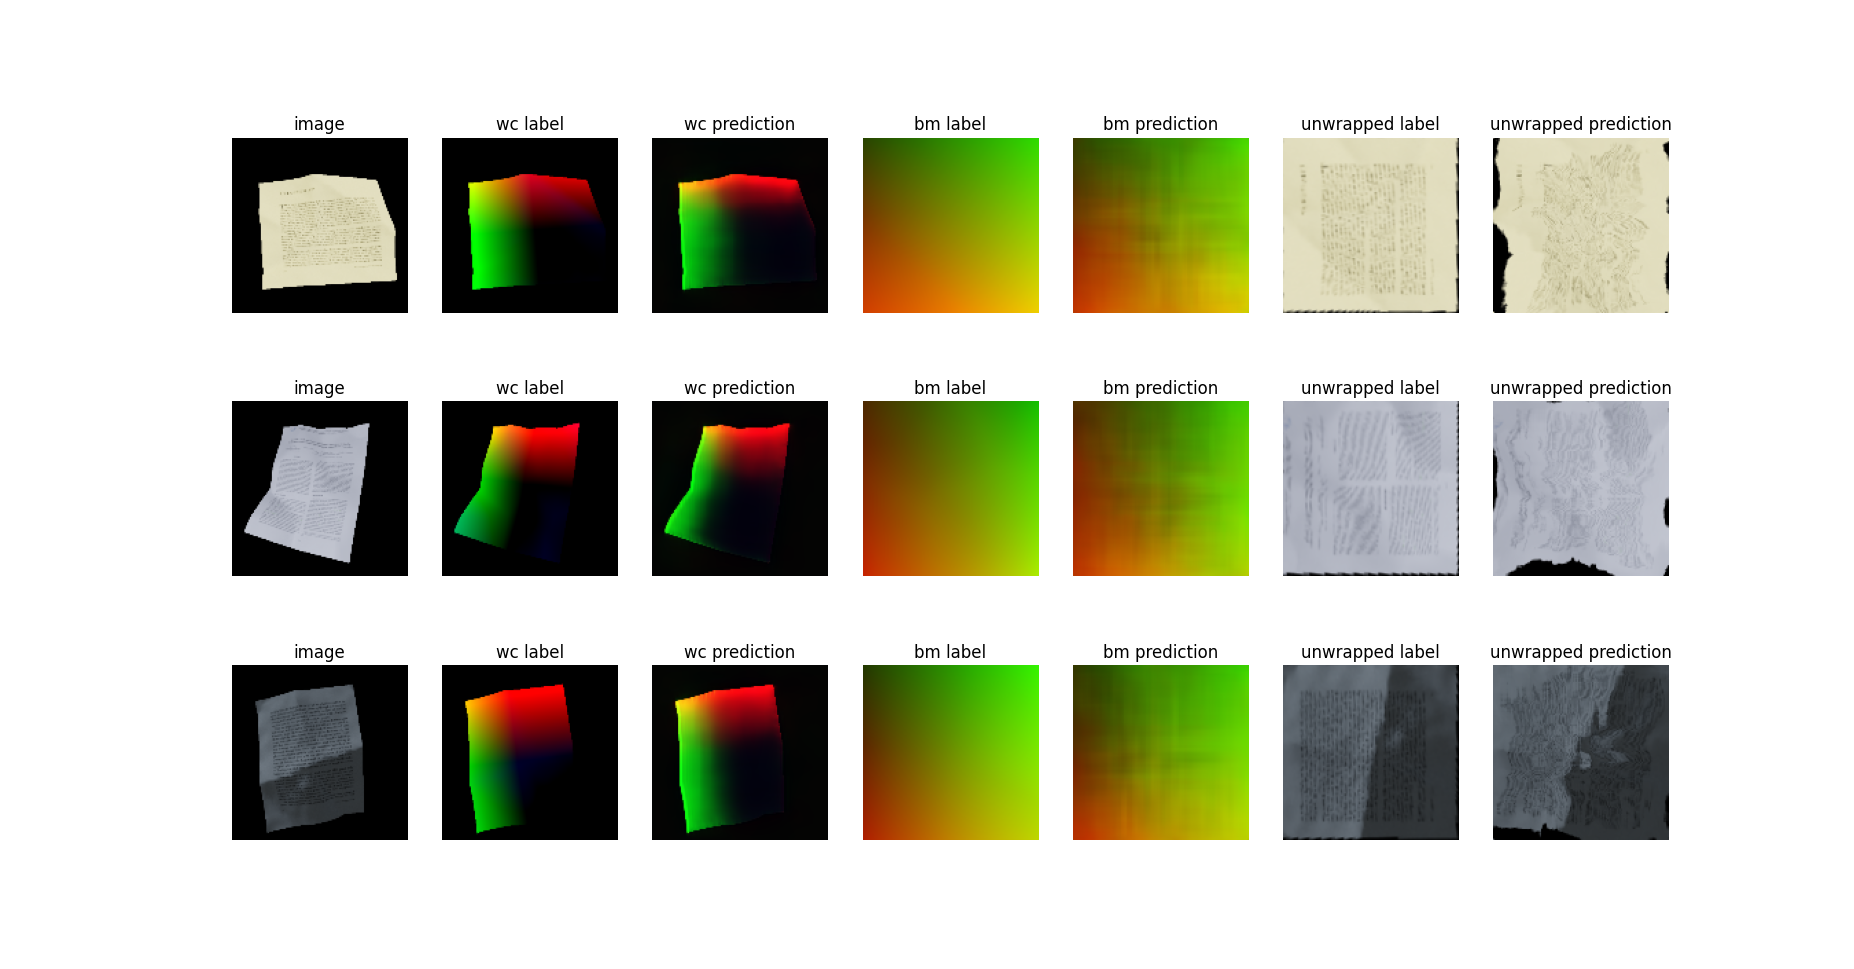
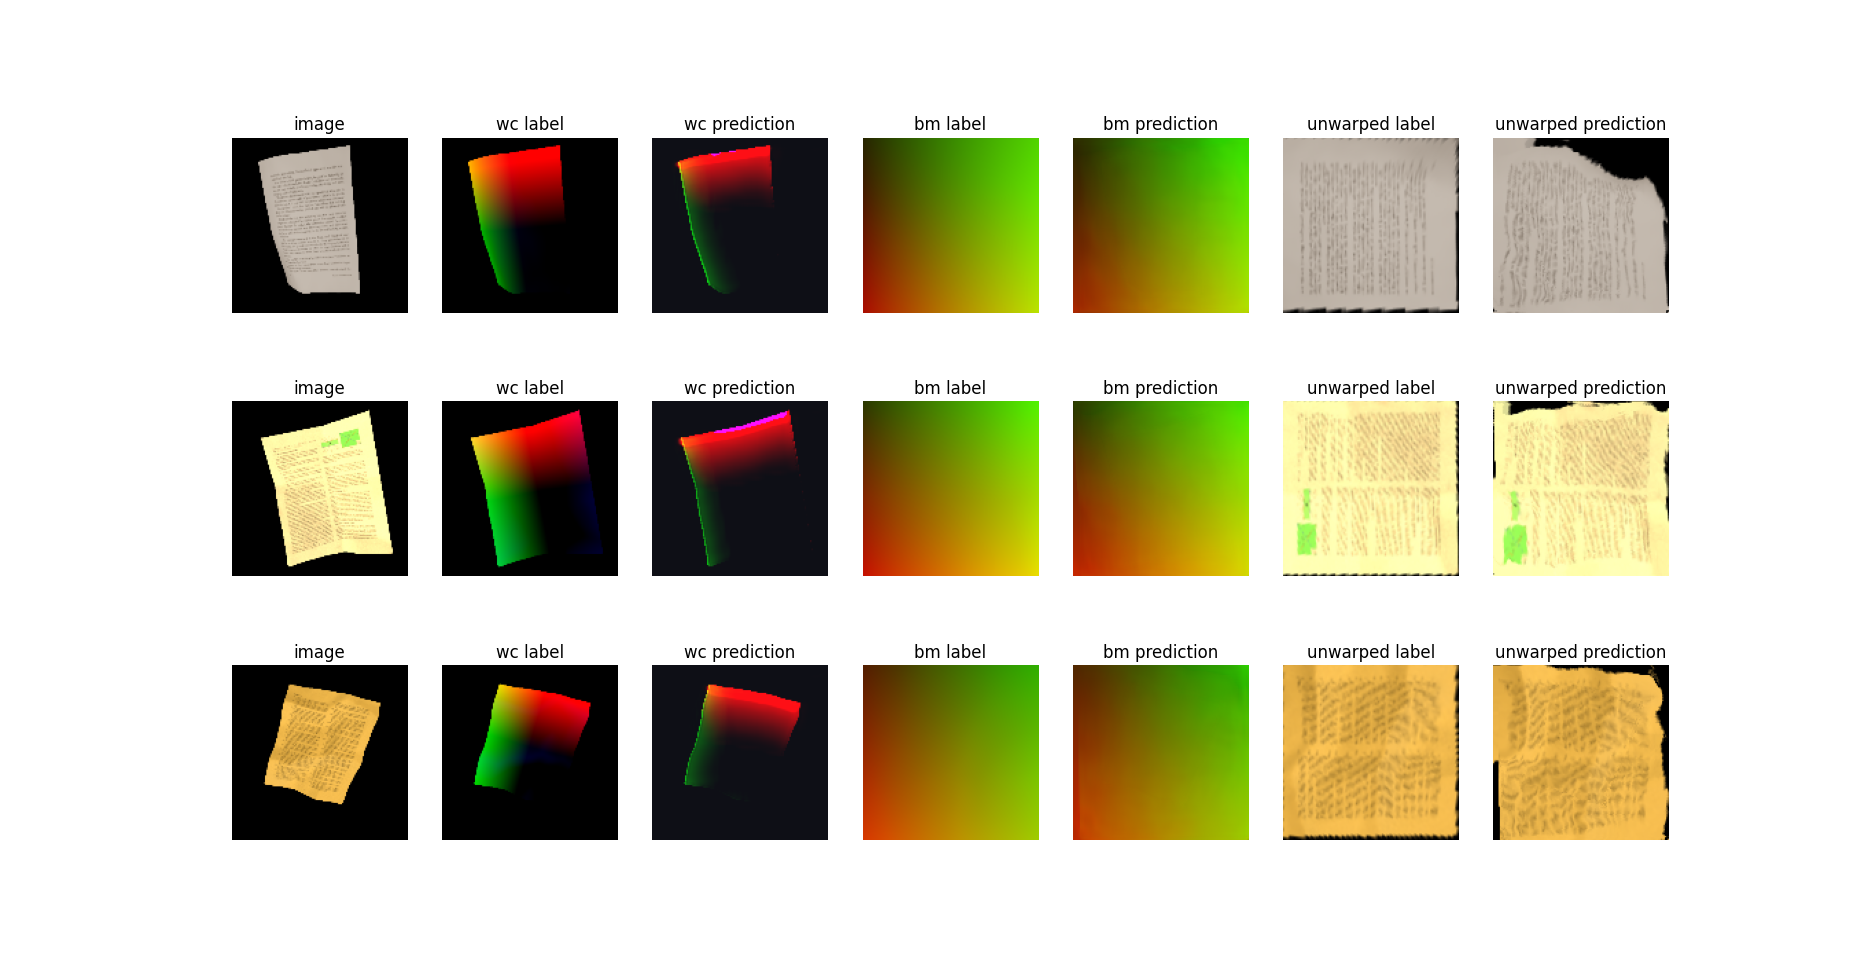
More parameters in decoders and missing relu added.

diff --git a/benchmark.py b/benchmark.py
@@ -54,80 +54,84 @@ def sample_from_bmap(img, bmap):
 # bmaps = [bmap_from_fmap(label[e,0:2,:,:], label[e,2,:,:]) for e in range(num_examples)]
 # bmaps = [sample_from_bmap(np.transpose(img[e,:,:,:], [1, 2, 0]), bmap) for e, bmap in enumerate(bmaps)]
 
-model = load_model("model.pth")
-model.eval()
+def benchmark_eval(model):
+    transform = Resize((128, 128))
 
-transform = Resize((128, 128))
+    # ds, _, _ = prepare_datasets([
+    #     ("/media/shared/Projekte/DocumentScanner/datasets/Doc3d", [("img/1", "png")], "wc/1", "exr", 20000)
+    # ], valid_perc=0.1, test_perc=0.1, batch_size=num_examples, transform=transform)
 
-# ds, _, _ = prepare_datasets([
-#     ("/media/shared/Projekte/DocumentScanner/datasets/Doc3d", [("img/1", "png")], "wc/1", "exr", 20000)
-# ], valid_perc=0.1, test_perc=0.1, batch_size=num_examples, transform=transform)
-
-# x, y = next(iter(ds))
+    # x, y = next(iter(ds))
 
 
-ds, _, _ = prepare_datasets([
-    ("/media/shared/Projekte/DocumentScanner/datasets/Doc3d", [("img_masked/1", "png"), ("lines/1", "png"), ("wc/1", "exr")], "bm/1exr", "exr", 20000)
-], valid_perc=0.1, test_perc=0.1, batch_size=num_examples, transform=transform)
+    ds, _, _ = prepare_datasets([
+        ("/media/shared/Projekte/DocumentScanner/datasets/Doc3d", [("img_masked/1", "png"), ("lines/1", "png"), ("wc/1", "exr")], "bm/1exr", "exr", 20000)
+    ], valid_perc=0.1, test_perc=0.1, batch_size=num_examples, transform=transform)
 
-x, bm_label = next(iter(ds))
-x[:, 0:3] *= x[:, 3].unsqueeze(axis=1)
-pre_label = x[:, :4]
-wc_label = x[:, 6:9]
-bm_label = bm_label[:, :2] / 448.0
+    x, bm_label = next(iter(ds))
+    x[:, 0:3] *= x[:, 3].unsqueeze(axis=1)
+    pre_label = x[:, :4]
+    wc_label = x[:, 6:9]
+    bm_label = bm_label[:, :2] / 448.0
 
-wc_pred = model.wc_model(pre_label)
-bm_pred = model.bm_model(wc_label)
-
-
-def cpu(ten):
-    return np.transpose(ten.detach().cpu().numpy(), [0, 2, 3, 1])
-
-pre_label = cpu(pre_label)
-wc_label, wc_pred = cpu(wc_label), cpu(wc_pred)
-bm_label, bm_pred = cpu(bm_label), cpu(bm_pred)
+    wc_pred = model.wc_model(pre_label)
+    bm_pred = model.bm_model(wc_label)
 
 
-def unwrap(e, ten):
-    return cv2.remap(pre_label[e, :, :, :3], ten * 128.0, None, interpolation=cv2.INTER_LINEAR)
+    def cpu(ten):
+        return np.transpose(ten.detach().cpu().numpy(), [0, 2, 3, 1])
 
-unwrapped_label = [unwrap(e, bm_label[e]) for e in range(num_examples)]
-unwrapped_pred = [unwrap(e, bm_pred[e]) for e in range(num_examples)]
-
-def pad(ten):
-    return np.pad(ten, ((0, 0), (0, 0), (0, 0), (0, 1)), mode='constant', constant_values=0)
-
-bm_label, bm_pred = pad(bm_label), pad(bm_pred)
+    pre_label = cpu(pre_label)
+    wc_label, wc_pred = cpu(wc_label), cpu(wc_pred)
+    bm_label, bm_pred = cpu(bm_label), cpu(bm_pred)
 
 
-title = ['image', 'wc label', 'wc prediction', 'bm label', 'bm prediction', 'unwrapped label', 'unwrapped prediction']
+    def unwrap(e, ten):
+        return cv2.remap(pre_label[e, :, :, :3], ten * 128.0, None, interpolation=cv2.INTER_LINEAR)
 
-plt.figure(figsize=(25, 25))
-i = 0
+    unwarped_label = [unwrap(e, bm_label[e]) for e in range(num_examples)]
+    unwarped_pred = [unwrap(e, bm_pred[e]) for e in range(num_examples)]
 
-for e in range(num_examples):
-    list = [pre_label[e,:,:,:3], wc_label[e], wc_pred[e], bm_label[e], bm_pred[e], unwrapped_label[e], unwrapped_pred[e]]
-    for t, arr in enumerate(list):
-        plt.subplot(num_examples, len(title), i + 1)
-        plt.title(title[t])
-        plt.imshow(arr)
+    def pad(ten):
+        return np.pad(ten, ((0, 0), (0, 0), (0, 0), (0, 1)), mode='constant', constant_values=0)
 
-        plt.axis('off')
-        i += 1
-
-plt.show()
+    bm_label, bm_pred = pad(bm_label), pad(bm_pred)
 
 
-# cer = 0.0
-# ed = 0.0
-# counter = 0
+    title = ['image', 'wc label', 'wc prediction', 'bm label', 'bm prediction', 'unwarped label', 'unwarped prediction']
 
-# char_error_rate = CharErrorRate()
-# edit_distance = ExtendedEditDistance()
+    plt.figure(figsize=(25, 25))
+    i = 0
 
-# text_label = str(pytesseract.image_to_string(unwrapped_label))
-# text_pred = str(pytesseract.image_to_string(unwrapped_pred))
+    for e in range(num_examples):
+        list = [pre_label[e,:,:,:3], wc_label[e], wc_pred[e], bm_label[e], bm_pred[e], unwarped_label[e], unwarped_pred[e]]
+        for t, arr in enumerate(list):
+            plt.subplot(num_examples, len(title), i + 1)
+            plt.title(title[t])
+            plt.imshow(arr)
 
-# cer += char_error_rate(text_pred, text_label).item()
-# ed += edit_distance(text_pred, text_label).item()
-# counter += 1
+            plt.axis('off')
+            i += 1
+
+    plt.show()
+
+
+    # cer = 0.0
+    # ed = 0.0
+    # counter = 0
+
+    # char_error_rate = CharErrorRate()
+    # edit_distance = ExtendedEditDistance()
+
+    # text_label = str(pytesseract.image_to_string(unwarped_label))
+    # text_pred = str(pytesseract.image_to_string(unwarped_pred))
+
+    # cer += char_error_rate(text_pred, text_label).item()
+    # ed += edit_distance(text_pred, text_label).item()
+    # counter += 1
+
+
+if __name__ == '__main__':
+    model = load_model("model.pth")
+    model.eval()
+    benchmark_eval(model)

diff --git a/model.py b/model.py
@@ -13,6 +13,7 @@ class Conv(nn.Module):
         
         self.layers = nn.Sequential(
             nn.Conv2d(inp, out, kernel_size=3, stride=1, padding='same', bias=False),
+            nn.ReLU(),
             nn.BatchNorm2d(out)
         )
     
@@ -37,14 +38,11 @@ class Block(nn.Module):
 
 
 class BlockStack(nn.Module):
-    def __init__(self, inp, out):
+    def __init__(self, filters, blocks):
         super().__init__()
 
         self.layers = nn.Sequential(
-            Conv(inp, out),
-            Block(out),
-            Block(out),
-            Block(out)
+            *[Block(filters) for _ in range(blocks)]
         )
 
 
@@ -58,8 +56,10 @@ class DownscaleBlock(nn.Module):
         
         self.layers = nn.Sequential(
             nn.MaxPool2d(2),
-            BlockStack(inp, out)
+            Conv(inp, out),
+            BlockStack(out, 4)
         )
+
 
     def forward(self, x):
         return self.layers(x)
@@ -69,14 +69,15 @@ class UpscaleBlock(nn.Module):
     def __init__(self, inp, out):
         super().__init__()
 
-        self.shuffle = Conv(inp, 4 * out)
-        self.conv = Block(out)
+        self.conv = Conv(inp, 4 * out)
+        self.stack = BlockStack(out, 4)
+
 
     def forward(self, x):
-        x = self.shuffle(x)
-        x = F.pixel_shuffle(x, 2)
         x = self.conv(x)
-
+        x = F.pixel_shuffle(x, 2)
+        x = self.stack(x)
+        
         return x
 
 
@@ -116,6 +117,52 @@ class UNet(nn.Module):
         
         x = self.cvt_out(x)
 
+        return x
+
+
+class ResBlock(nn.Module):
+    def __init__(self, filters):
+        super().__init__()
+
+        self.conv0 = Conv(filters, filters)
+        self.conv1 = Conv(filters, filters)
+
+    def forward(self, inp):
+        x = self.conv0(inp)
+        x = self.conv1(x)
+        x = x + inp
+        return x
+
+
+class ResNet(nn.Module):
+    def __init__(self, inp, out, depth_steps, blocks_per_depth):
+        super().__init__()
+
+        depth = [ 32, 64, 128, 256, 512, 1024 ]
+
+        self.cvt_in = Conv(inp, depth[0])
+
+        layers = []
+
+        for d in range(depth_steps):
+            for b in range(blocks_per_depth):
+                layers.append(ResBlock(depth[d]))
+
+            if d != depth_steps - 1:
+                layers.append(Conv(depth[d], depth[d + 1]))
+
+        self.layers = nn.ModuleList(layers)
+
+        self.cvt_out = Conv(depth[depth_steps - 1], out)
+
+
+    def forward(self, x):
+        x = self.cvt_in(x)
+
+        for layer in self.layers:
+            x = layer(x)
+
+        x = self.cvt_out(x)
         return x
 
 
@@ -190,12 +237,13 @@ class BMModel(nn.Module):
     def __init__(self):
         super().__init__()
 
-        self.unet = UNet(3, 2, blocks=3)
+        # self.net = ResNet(3, 2, 3, 4)
+        self.net = UNet(3, 2, blocks=3)
         self.dummy = nn.Parameter(torch.empty(0))
 
 
     def forward(self, x):
-        x = self.unet(x)
+        x = self.net(x)
         x = torch.sigmoid(x)
 
         return x

diff --git a/train.py b/train.py
@@ -1,6 +1,7 @@
 #!/usr/bin/python3
-from model import Model, save_model, load_model, binarize
+from model import Model, BMModel, save_model, load_model, binarize
 from data import prepare_datasets
+from benchmark import benchmark_eval
 from torchvision.transforms import Resize
 import torch
 # from torch.utils.tensorboard import SummaryWriter
@@ -10,15 +11,16 @@ from itertools import cycle
 
 lr = 1e-3
 steps_per_epoch = 20
+batch_size = 8
 device = torch.device('cuda')
 
-mask_epochs = 200
-wc_epochs = 200
-bm_epochs = 200
+mask_epochs = 2000
+wc_epochs = 2000
+bm_epochs = 2000
 
-mask_time_in_hours = 0 # 1.0
-wc_time_in_hours = 3.0
-bm_time_in_hours = 0.5
+mask_time_in_hours = 0
+wc_time_in_hours = 2.5
+bm_time_in_hours = 1.0
 
 model = load_model("model.pth")
 model.to(device)
@@ -78,13 +80,23 @@ def train_model(mode, model, epochs, time_in_hours, trainds_iter):
         if hours_passed > time_in_hours:
             print(f"hour limit of {time_in_hours:.4f}h passed")
             break
+        # elif keyboard.is_pressed('v'):
+        #     model.train(False)
+        #     benchmark_eval(model)
+        #     save_model(model, "model.pth")
+        #     model.train(True)
+        # elif keyboard.is_pressed('q'):
+        #     save_model(model, "model.pth")
+
+        #     exit()
+
 
 transform = Resize((128, 128))
 
 def train_pre_model():
     train_ds, valid_ds, test_ds = prepare_datasets([
         ("/media/shared/Projekte/DocumentScanner/datasets/Doc3d", [("img/1", "png")], "wc/1", "exr", 20000)
-    ], valid_perc=0.1, test_perc=0.1, batch_size=16, transform=transform)
+    ], valid_perc=0.1, test_perc=0.1, batch_size=batch_size, transform=transform)
 
     trainds_iter = iter(cycle(train_ds))
 
@@ -93,13 +105,13 @@ def train_pre_model():
 
     save_model(model, "model.pth")
 
-# train_pre_model()
+#train_pre_model()
 
 
 def train_wc_model():
     train_ds, valid_ds, test_ds = prepare_datasets([
         ("/media/shared/Projekte/DocumentScanner/datasets/Doc3d", [("img_masked/1", "png"), ("lines/1", "png")], "wc/1", "exr", 20000)
-    ], valid_perc=0.1, test_perc=0.1, batch_size=16, transform=transform)
+    ], valid_perc=0.1, test_perc=0.1, batch_size=batch_size, transform=transform)
 
     trainds_iter = iter(cycle(train_ds))
 
@@ -109,13 +121,13 @@ def train_wc_model():
 
     save_model(model, "model.pth")
 
-# train_wc_model()
+train_wc_model()
 
 
 def train_bm_model():
     train_ds, valid_ds, test_ds = prepare_datasets([
         ("/media/shared/Projekte/DocumentScanner/datasets/Doc3d", [("wc/1", "exr")], "bm/1exr", "exr", 20000)
-    ], valid_perc=0.1, test_perc=0.1, batch_size=16, transform=transform)
+    ], valid_perc=0.1, test_perc=0.1, batch_size=batch_size, transform=transform)
 
     trainds_iter = iter(cycle(train_ds))
 
